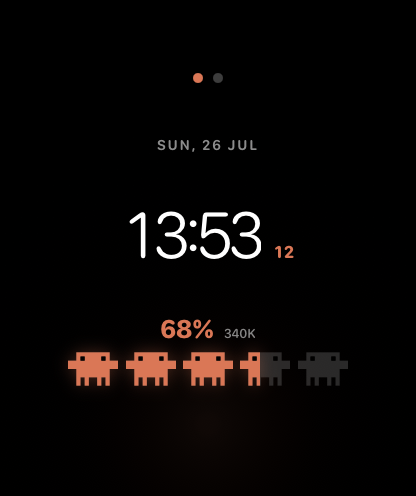
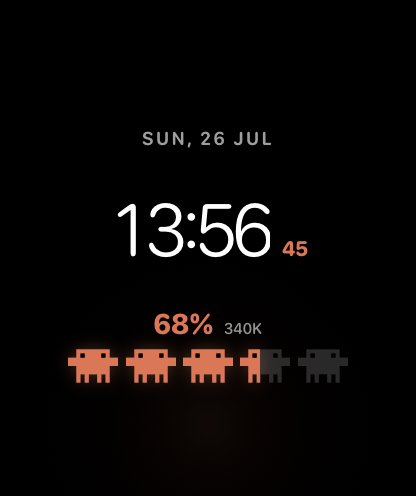
Focus app on digital face
Keep the analog implementation dormant, remove face-selection UI, and enlarge the digital typography while preserving the mascot row size and stable countdown layout.

Copilot-Session: a1662503-018e-45a5-9f2f-94f463106b09

diff --git a/ClaudeCreditsWatch/FiveAliensFaceView.swift b/ClaudeCreditsWatch/FiveAliensFaceView.swift
@@ -13,18 +13,18 @@ struct FiveAliensFaceView: View {
                     Spacer(minLength: geometry.size.height * 0.02)
 
                     Text(context.date, format: .dateTime.weekday(.abbreviated).month(.abbreviated).day())
-                        .font(.system(size: geometry.size.height * 0.047, weight: .semibold, design: .rounded))
+                        .font(.system(size: geometry.size.height * 0.062, weight: .semibold, design: .rounded))
                         .textCase(.uppercase)
-                        .tracking(1)
-                        .foregroundStyle(Color.white.opacity(0.55))
+                        .tracking(1.2)
+                        .foregroundStyle(Color.white.opacity(0.62))
 
-                    Spacer(minLength: geometry.size.height * 0.035)
+                    Spacer(minLength: geometry.size.height * 0.025)
 
                     timeDisplay(
                         now: context.date,
                         height: geometry.size.height
                     )
-                    .frame(height: geometry.size.height * 0.235)
+                    .frame(height: geometry.size.height * 0.27)
                     .contentShape(Rectangle())
                     .onTapGesture {
                         withAnimation(.easeInOut(duration: 0.2)) {
@@ -37,13 +37,13 @@ struct FiveAliensFaceView: View {
                     VStack(spacing: geometry.size.height * 0.022) {
                         HStack(alignment: .firstTextBaseline, spacing: 5) {
                             Text("\(Int(remainingPercent.rounded()))%")
-                                .font(.system(size: geometry.size.height * 0.085, weight: .bold, design: .rounded))
+                                .font(.system(size: geometry.size.height * 0.095, weight: .bold, design: .rounded))
                                 .monospacedDigit()
                                 .foregroundStyle(Color.creditOrange)
 
                             Text(MockCreditMath.compactTokenText(for: remainingPercent))
-                                .font(.system(size: geometry.size.height * 0.043, weight: .medium, design: .rounded))
-                                .foregroundStyle(Color.white.opacity(0.52))
+                                .font(.system(size: geometry.size.height * 0.052, weight: .medium, design: .rounded))
+                                .foregroundStyle(Color.white.opacity(0.58))
                         }
 
                         HStack(spacing: geometry.size.width * 0.018) {
@@ -62,7 +62,7 @@ struct FiveAliensFaceView: View {
                     .padding(.bottom, geometry.size.height * 0.085)
                 }
                 .frame(maxWidth: .infinity, maxHeight: .infinity)
-                .offset(y: -geometry.size.height * 0.035)
+                .offset(y: -geometry.size.height * 0.045)
             }
         }
         .background(
@@ -83,12 +83,12 @@ struct FiveAliensFaceView: View {
         if showsResetCountdown {
             VStack(spacing: height * 0.006) {
                 Text("RESET IN")
-                    .font(.system(size: height * 0.04, weight: .semibold, design: .rounded))
+                    .font(.system(size: height * 0.052, weight: .semibold, design: .rounded))
                     .tracking(1.4)
                     .foregroundStyle(Color.creditOrange)
 
                 Text(countdownText(from: now))
-                    .font(.system(size: height * 0.155, weight: .light, design: .rounded))
+                    .font(.system(size: height * 0.18, weight: .light, design: .rounded))
                     .monospacedDigit()
                     .foregroundStyle(.white)
                     .minimumScaleFactor(0.7)
@@ -97,13 +97,13 @@ struct FiveAliensFaceView: View {
         } else {
             HStack(alignment: .lastTextBaseline, spacing: 6) {
                 Text(now, format: .dateTime.hour().minute())
-                    .font(.system(size: height * 0.215, weight: .light, design: .rounded))
+                    .font(.system(size: height * 0.245, weight: .light, design: .rounded))
                     .monospacedDigit()
                     .foregroundStyle(.white)
                     .tracking(-2)
 
                 Text(String(format: "%02d", Calendar.current.component(.second, from: now)))
-                    .font(.system(size: height * 0.057, weight: .bold, design: .rounded))
+                    .font(.system(size: height * 0.07, weight: .bold, design: .rounded))
                     .monospacedDigit()
                     .foregroundStyle(Color.creditOrange)
                     .padding(.bottom, height * 0.017)

diff --git a/ClaudeCreditsWatch/ContentView.swift b/ClaudeCreditsWatch/ContentView.swift
@@ -1,33 +1,11 @@
 import SwiftUI
 
-enum FaceStyle: String, CaseIterable, Identifiable {
-    case fiveAliens
-    case analogDrain
-
-    var id: String { rawValue }
-
-    var title: String {
-        switch self {
-        case .fiveAliens:
-            return "Five aliens"
-        case .analogDrain:
-            return "Analog drain"
-        }
-    }
-}
-
 struct ContentView: View {
     @AppStorage("remainingPercent") private var remainingPercent = 68.0
     @AppStorage("mockResetAt") private var mockResetAt = 0.0
     @AppStorage("mockScenarioVersion") private var mockScenarioVersion = 0
-    @AppStorage("selectedFace") private var selectedFaceRawValue = FaceStyle.fiveAliens.rawValue
     @State private var isShowingControls = false
     @FocusState private var receivesCrownInput: Bool
-
-    private var selectedFace: FaceStyle {
-        get { FaceStyle(rawValue: selectedFaceRawValue) ?? .fiveAliens }
-        nonmutating set { selectedFaceRawValue = newValue.rawValue }
-    }
 
     private var resetDate: Date {
         Date(timeIntervalSince1970: mockResetAt)
@@ -37,20 +15,10 @@ struct ContentView: View {
         ZStack {
             Color.black.ignoresSafeArea()
 
-            switch selectedFace {
-            case .fiveAliens:
-                FiveAliensFaceView(
-                    remainingPercent: remainingPercent,
-                    resetDate: resetDate
-                )
-                    .transition(.opacity.combined(with: .scale(scale: 0.96)))
-            case .analogDrain:
-                AnalogDrainFaceView(
-                    remainingPercent: remainingPercent,
-                    resetDate: resetDate
-                )
-                    .transition(.opacity.combined(with: .scale(scale: 0.96)))
-            }
+            FiveAliensFaceView(
+                remainingPercent: remainingPercent,
+                resetDate: resetDate
+            )
         }
         .contentShape(Rectangle())
         .focusable()
@@ -89,39 +57,12 @@ struct ContentView: View {
         }) {
             MockControlsView(
                 remainingPercent: $remainingPercent,
-                resetAt: $mockResetAt,
-                selectedFaceRawValue: $selectedFaceRawValue
+                resetAt: $mockResetAt
             )
-        }
-        .overlay(alignment: .top) {
-            Button(action: toggleFace) {
-                HStack(spacing: 5) {
-                    ForEach(FaceStyle.allCases) { style in
-                        Circle()
-                            .fill(
-                                style == selectedFace
-                                    ? Color.creditOrange
-                                    : Color.white.opacity(0.24)
-                            )
-                            .frame(width: 5, height: 5)
-                    }
-                }
-                .frame(width: 64, height: 44)
-                .contentShape(Rectangle())
-            }
-            .buttonStyle(.plain)
-            .offset(y: -36)
-            .accessibilityLabel("Switch watch design")
         }
         .accessibilityElement(children: .contain)
         .accessibilityLabel("Claude credits prototype")
         .accessibilityValue("\(Int(remainingPercent.rounded())) percent remaining")
-    }
-
-    private func toggleFace() {
-        withAnimation(.easeInOut(duration: 0.22)) {
-            selectedFace = selectedFace == .fiveAliens ? .analogDrain : .fiveAliens
-        }
     }
 }
 

diff --git a/ClaudeCreditsWatch/MockControlsView.swift b/ClaudeCreditsWatch/MockControlsView.swift
@@ -3,15 +3,7 @@ import SwiftUI
 struct MockControlsView: View {
     @Binding var remainingPercent: Double
     @Binding var resetAt: Double
-    @Binding var selectedFaceRawValue: String
     @Environment(\.dismiss) private var dismiss
-
-    private var selectedFace: Binding<FaceStyle> {
-        Binding(
-            get: { FaceStyle(rawValue: selectedFaceRawValue) ?? .fiveAliens },
-            set: { selectedFaceRawValue = $0.rawValue }
-        )
-    }
 
     private var resetDate: Date {
         Date(timeIntervalSince1970: resetAt)
@@ -20,14 +12,6 @@ struct MockControlsView: View {
     var body: some View {
         NavigationStack {
             Form {
-                Section("Design") {
-                    Picker("Face", selection: selectedFace) {
-                        ForEach(FaceStyle.allCases) { style in
-                            Text(style.title).tag(style)
-                        }
-                    }
-                }
-
                 Section("Mock 5-hour allowance") {
                     VStack(spacing: 8) {
                         Text("\(Int(remainingPercent.rounded()))%")
@@ -66,7 +50,6 @@ struct MockControlsView: View {
 
                 Section("Shortcuts") {
                     Text("Crown adjusts credits")
-                    Text("Tap the top-center dots to switch face")
                     Text("Tap digital time for countdown")
                     Text("Long-press opens this panel")
                 }
@@ -92,8 +75,7 @@ struct MockControlsView_Previews: PreviewProvider {
     static var previews: some View {
         MockControlsView(
             remainingPercent: .constant(68),
-            resetAt: .constant(Date.now.addingTimeInterval(3 * 60 * 60).timeIntervalSince1970),
-            selectedFaceRawValue: .constant(FaceStyle.fiveAliens.rawValue)
+            resetAt: .constant(Date.now.addingTimeInterval(3 * 60 * 60).timeIntervalSince1970)
         )
     }
 }

diff --git a/AGENTS.md b/AGENTS.md
@@ -6,29 +6,27 @@ Credit Aliens is a standalone SwiftUI watchOS app that visualizes a mocked
 Claude five-hour allowance. It is intentionally a watch-only app; there is no
 iOS companion target and Apple does not permit third-party system watch faces.
 
-The two in-app designs are:
-
-- `FiveAliensFaceView`: digital clock/countdown with five horizontally filled
-  Clawd sprites.
-- `AnalogDrainFaceView`: analog dial with one vertically drained Clawd and a
-  reset-time marker.
+The active design is `FiveAliensFaceView`, a digital clock/countdown with five
+horizontally filled Clawd sprites. `AnalogDrainFaceView` is retained as dormant
+source for possible future use but must not be exposed without a new product
+decision.
 
 ## Important behavior
 
 - The Digital Crown changes the mocked remaining percentage.
-- The two dots at the top center switch designs. Keep them above all face
-  elements and preserve their large invisible hit target.
 - Tapping the digital clock toggles the reset countdown.
 - Clock and countdown content share a fixed-height frame so the date does not
   move.
+- Keep the five-mascot row at its current size; use typography and spacing for
+  readability improvements unless new feedback explicitly changes the mascots.
 - Long-pressing opens `MockControlsView`.
 - Default mock state is 68% of a 500K token-equivalent allowance with 2h43m
   until reset.
 
 ## Source map
 
-- `ClaudeCreditsWatch/ContentView.swift`: persisted mock state, face selection,
-  crown input, controls sheet, and selector dots.
+- `ClaudeCreditsWatch/ContentView.swift`: persisted mock state, crown input,
+  and controls sheet.
 - `ClaudeCreditsWatch/FiveAliensFaceView.swift`: digital design and countdown.
 - `ClaudeCreditsWatch/AnalogDrainFaceView.swift`: analog design and reset mark.
 - `ClaudeCreditsWatch/PixelAlienView.swift`: exact 12x8 Clawd sprite and partial

diff --git a/README.md b/README.md
@@ -1,18 +1,18 @@
 # Claude Credits Watch
 
 A standalone SwiftUI watchOS prototype for visualizing the remaining Claude
-five-hour allowance. It currently uses mock values and includes two full-screen,
-face-like designs:
+five-hour allowance. It currently uses mock values and focuses on a full-screen,
+digital face-like design:
 
 - **Five aliens:** a digital clock with five segmented pixel aliens along the
   bottom. Each alien represents 20% of the five-hour allowance.
-- **Analog drain:** a quiet analog clock with one large alien that drains
-  vertically as the remaining allowance falls. An orange bezel marker shows
-  the reset time.
 
-| Digital clock | Reset countdown | Analog reset marker |
-| --- | --- | --- |
-| ![Five Clawd digital design](Previews/watch-simulator.png) | ![Five-hour reset countdown](Previews/watch-reset-countdown.png) | ![Analog draining Clawd design](Previews/watch-simulator-analog.png) |
+| Digital clock | Reset countdown |
+| --- | --- |
+| ![Five Clawd digital design](Previews/watch-simulator.png) | ![Five-hour reset countdown](Previews/watch-reset-countdown.png) |
+
+The earlier analog design remains in the source for possible future use, but it
+is not exposed in the app.
 
 > Apple does not let third-party developers install fully custom system watch
 > faces. This project is a watchOS app that behaves like a face while it is
@@ -43,7 +43,6 @@ xcodegen generate
 ## Prototype controls
 
 - Rotate the Digital Crown to change the mocked remaining percentage.
-- Tap the two small dots at the top center to switch faces.
 - Tap the digital time to switch between the clock and reset countdown.
 - Long-press anywhere to open controls with a slider and preset values.
 
